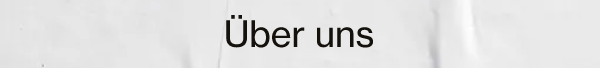
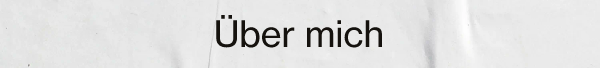
Align Remy window chrome and unify About presentation

diff --git a/nextjs/app/components/HubMapIntro.module.css b/nextjs/app/components/HubMapIntro.module.css
@@ -4,25 +4,15 @@
 .copy { max-width: 440px; }
 .copy p { margin: 0 0 28px; font-size: clamp(18px, 1.8vw, 26px); line-height: 1.4; letter-spacing: -.025em; }
 .showcase { width: min(100%, 360px); justify-self: center; perspective: 1400px; }
-.phone { display: block; position: relative; padding: 6px; border-radius: 15% / 7%; background: #090a0b; border: 1px solid #969695; transform: rotateY(-7deg) rotateZ(2deg); box-shadow: inset 0 0 0 1px #383a3c, 1px 0 0 1px #656667, 3px 1px 0 1px #292b2d, 4px 2px 0 1px #737474, 14px 22px 35px #0005; }
-.phone::before, .phone::after { content: ''; position: absolute; width: 3px; border-radius: 2px; background: linear-gradient(90deg, #777, #252729); }
-.phone::before { left: -3px; top: 21%; height: 7%; box-shadow: 0 46px 0 #4b4d4f; }
-.phone::after { right: -6px; top: 28%; height: 12%; }
-.display { position: relative; overflow: clip; border-radius: 13% / 6%; background: #fff; aspect-ratio: 9 / 19.5; display: flex; flex-direction: column; }
-.status { position: relative; flex: 0 0 auto; height: 36px; padding: 0 7%; display: flex; align-items: center; justify-content: space-between; color: #111; font: 600 9px/1 Arial, sans-serif; }
-.status i { position: absolute; top: 7px; left: 50%; transform: translateX(-50%); width: 29%; height: 19px; border-radius: 20px; background: #050505; }
-.status i::after { content: ''; position: absolute; right: 7px; top: 6px; width: 6px; height: 6px; border-radius: 50%; background: radial-gradient(circle at 40% 35%, #202c40, #080b11 65%); }
-.statusIcons { width: 19%; height: auto; }
 .viewport { overflow: clip; flex: 1; min-height: 0; }
 .track { display: flex; width: 400%; height: 100%; touch-action: pan-y; }
 .slide { width: 25%; flex: 0 0 25%; overflow: clip; }
 .screen { display: block; width: 100%; height: auto; }
-.homeBar { position: absolute; bottom: 6px; left: 34%; width: 32%; height: 3px; border-radius: 4px; background: #111; box-shadow: 0 0 2px #fff; }
 .controls { display: flex; align-items: center; justify-content: center; gap: 2px; margin-top: 34px; }
 .dot, .pause { width: 40px; height: 40px; display: grid; place-items: center; border: 0; background: transparent; color: var(--et-fg); cursor: pointer; }
 .dot::after { content: ''; width: 6px; height: 6px; border-radius: 10px; background: currentColor; opacity: .3; }
 .dot[aria-pressed='true']::after { width: 22px; opacity: 1; }
-.phone:focus-visible, .dot:focus-visible, .pause:focus-visible { outline: 3px solid var(--et-fg); outline-offset: 5px; }
+.dot:focus-visible, .pause:focus-visible { outline: 3px solid var(--et-fg); outline-offset: 5px; }
 /* Wie der Hero: eine Bildschirmhöhe, mit vollständig sichtbarem Telefon und CTA. */
 @media (min-width: 768px) {
   .section { box-sizing: border-box; min-height: 570px; height: 100svh; padding-block: clamp(24px, 5svh, 56px); }

diff --git a/nextjs/app/components/HubMapIntro.tsx b/nextjs/app/components/HubMapIntro.tsx
@@ -5,6 +5,8 @@ import gsap from 'gsap';
 import Image from './SiteImage';
 import MapIntentLink from './MapIntentLink';
 import styles from './HubMapIntro.module.css';
+import phoneStyles from './PhoneDisplay.module.css';
+import PhoneDisplay from './PhoneDisplay';
 
 const SCREEN_ORDER = [4, 1, 3, 2] as const;
 
@@ -70,7 +72,7 @@ export default function HubMapIntro({ locale }: { locale: 'de' | 'en' }) {
       <div ref={showcase} className={styles.showcase} onMouseEnter={() => setInteracting(true)} onMouseLeave={() => setInteracting(false)} onFocusCapture={() => setInteracting(true)} onBlurCapture={event => { if (!event.currentTarget.contains(event.relatedTarget)) setInteracting(false); }}>
         <MapIntentLink
           href="/map"
-          className={styles.phone}
+          className={phoneStyles.phone}
           aria-label={de ? 'Food Map öffnen' : 'Open the food map'}
           onPointerDown={event => {
             if (event.pointerType !== 'touch') suppressClick.current = false;
@@ -119,8 +121,7 @@ export default function HubMapIntro({ locale }: { locale: 'de' | 'en' }) {
             event.stopPropagation();
           }}
         >
-          <div className={styles.display}>
-            <div className={styles.status} aria-hidden="true"><span>9:41</span><i /><svg className={styles.statusIcons} viewBox="0 0 64 14" fill="currentColor"><rect x="1" y="8" width="3" height="5" rx=".8"/><rect x="6" y="6" width="3" height="7" rx=".8"/><rect x="11" y="3" width="3" height="10" rx=".8"/><rect x="16" y="0" width="3" height="13" rx=".8"/><path d="M23 4a11 11 0 0 1 16 0l-2 2a8 8 0 0 0-12 0zm3 4a7 7 0 0 1 10 0l-2 2a4 4 0 0 0-6 0zm3 3a3 3 0 0 1 4 0l-2 2z"/><rect x="43" y="1" width="18" height="11" rx="3" fill="none" stroke="currentColor" strokeWidth="1"/><rect x="45" y="3" width="14" height="7" rx="1.5"/><path d="M63 4v5" stroke="currentColor" strokeWidth="2"/></svg></div>
+          <PhoneDisplay>
             <div className={styles.viewport}>
               <div ref={track} className={styles.track}>
                 {screens.map(({ id, description }, index) => (
@@ -130,8 +131,7 @@ export default function HubMapIntro({ locale }: { locale: 'de' | 'en' }) {
                 ))}
               </div>
             </div>
-            <div className={styles.homeBar} aria-hidden="true" />
-          </div>
+          </PhoneDisplay>
         </MapIntentLink>
         <div className={styles.controls} role="group" aria-label={de ? 'Screens auswählen' : 'Choose a screen'}>
           {screens.map(({ description }, index) => <button key={description} type="button" className={styles.dot} aria-label={description} aria-pressed={active === index} onClick={() => { showScreen(index); setPaused(true); }} />)}

diff --git a/nextjs/e2e/remy-window-chrome.spec.ts b/nextjs/e2e/remy-window-chrome.spec.ts
@@ -1,0 +1,30 @@
+import { expect, test } from '@playwright/test';
+import { CONSENT_VERSION } from '../lib/consent';
+
+for (const width of [390, 1440]) {
+  test(`Remy title bar and close control stay aligned after sending at ${width}px`, async ({ page, context, baseURL }) => {
+    await page.setViewportSize({ width, height: 900 });
+    await page.emulateMedia({ reducedMotion: 'reduce' });
+    await context.addCookies([{ name: 'cookieConsent', value: `declined.${CONSENT_VERSION}`, url: baseURL! }]);
+    await page.route('**/api/consent', route => route.fulfill({ status: 204 }));
+    await page.route('**/api/buddy', route => route.fulfill({ contentType: 'application/x-ndjson', body: '{"type":"text","value":"Hier ist dein Tipp."}\n{"type":"done"}\n' }));
+    await page.goto('/about');
+    await page.locator('#burgerBtn').click();
+    await page.getByRole('dialog', { name: 'Navigation' }).getByRole('button', { name: 'Frag Remy', exact: true }).click();
+    const panel = page.locator('#buddy-panel');
+    const close = panel.getByRole('button', { name: 'Schließen', exact: true });
+    await expect(panel).toBeVisible();
+    const before = await close.boundingBox();
+    await panel.locator('input').fill('Pizza?');
+    await panel.getByRole('button', { name: 'Senden', exact: true }).click();
+    await expect(panel.locator('[data-buddy-avatar="header"]')).toBeVisible();
+    const after = await close.boundingBox();
+    expect(Math.abs(after!.y - before!.y), 'Close button must not move down when the portrait enters').toBeLessThan(1);
+    const glyph = await close.locator('svg').boundingBox();
+    expect(Math.abs(glyph!.x + glyph!.width / 2 - after!.x - after!.width / 2)).toBeLessThan(1);
+    expect(Math.abs(glyph!.y + glyph!.height / 2 - after!.y - after!.height / 2)).toBeLessThan(1);
+    await page.screenshot({ path: `/tmp/eat-this-followup-remy-${width}.png` });
+    await close.click();
+    await expect(panel).toBeHidden();
+  });
+}

diff --git a/nextjs/app/components/PhoneDisplay.module.css b/nextjs/app/components/PhoneDisplay.module.css
@@ -1,0 +1,11 @@
+.phone { display: block; position: relative; padding: 6px; border-radius: 15% / 7%; background: #090a0b; border: 1px solid #969695; transform: rotateY(-7deg) rotateZ(2deg); box-shadow: inset 0 0 0 1px #383a3c, 1px 0 0 1px #656667, 3px 1px 0 1px #292b2d, 4px 2px 0 1px #737474, 14px 22px 35px #0005; }
+.phone::before, .phone::after { content: ''; position: absolute; width: 3px; border-radius: 2px; background: linear-gradient(90deg, #777, #252729); }
+.phone::before { left: -3px; top: 21%; height: 7%; box-shadow: 0 46px 0 #4b4d4f; }
+.phone::after { right: -6px; top: 28%; height: 12%; }
+.display { position: relative; overflow: clip; border-radius: 13% / 6%; background: #fff; aspect-ratio: 9 / 19.5; display: flex; flex-direction: column; }
+.status { position: relative; flex: 0 0 auto; height: 36px; padding: 0 7%; display: flex; align-items: center; justify-content: space-between; color: #111; font: 600 9px/1 Arial, sans-serif; }
+.status i { position: absolute; top: 7px; left: 50%; transform: translateX(-50%); width: 29%; height: 19px; border-radius: 20px; background: #050505; }
+.status i::after { content: ''; position: absolute; right: 7px; top: 6px; width: 6px; height: 6px; border-radius: 50%; background: radial-gradient(circle at 40% 35%, #202c40, #080b11 65%); }
+.statusIcons { width: 19%; height: auto; }
+.homeBar { position: absolute; bottom: 6px; left: 34%; width: 32%; height: 3px; border-radius: 4px; background: #111; box-shadow: 0 0 2px #fff; }
+.phone:focus-visible { outline: 3px solid var(--et-fg); outline-offset: 5px; }

diff --git a/nextjs/app/components/MapPhoneArtwork.tsx b/nextjs/app/components/MapPhoneArtwork.tsx
@@ -1,13 +1,19 @@
 import Image from './SiteImage';
+import PhoneDisplay from './PhoneDisplay';
+import phoneStyles from './PhoneDisplay.module.css';
 import styles from './MapPhoneArtwork.module.css';
 
-/** The current map screenshot, showing the spot list, inside its exported iPhone frame. */
+/** Same iPhone casing as the home preview, with the current map spot list. */
 export default function MapPhoneArtwork({ alt, className = '', fit = false }: { alt: string; className?: string; fit?: boolean }) {
   return (
-    <span className={`${styles.mount} ${fit ? styles.fit : ''} ${className}`}>
-      <span className={styles.frame}>
-      <Image src="/pics/home-map/iphone-screen-4-frame.webp" alt={alt} width={534} height={1044} sizes="(max-width: 600px) 225px, 350px" className={styles.image} />
-      </span>
-    </span>
+    <div className={`${styles.mount} ${fit ? styles.fit : ''} ${className}`}>
+      <div className={phoneStyles.phone}>
+        <PhoneDisplay>
+          <div className={styles.viewport}>
+            <Image src="/pics/home-map/iphone-screen-4.webp" alt={alt} width={440} height={894} sizes="(max-width: 600px) 260px, 350px" className={styles.image} />
+          </div>
+        </PhoneDisplay>
+      </div>
+    </div>
   );
 }

diff --git a/nextjs/app/components/PhoneDisplay.tsx b/nextjs/app/components/PhoneDisplay.tsx
@@ -1,0 +1,13 @@
+import type { ReactNode } from 'react';
+import styles from './PhoneDisplay.module.css';
+
+/** Shared iPhone casing and display chrome for the home and About previews. */
+export default function PhoneDisplay({ children }: { children: ReactNode }) {
+  return (
+    <div className={styles.display}>
+      <span className={styles.status} aria-hidden="true"><span>9:41</span><i /><svg className={styles.statusIcons} viewBox="0 0 64 14" fill="currentColor"><rect x="1" y="8" width="3" height="5" rx=".8"/><rect x="6" y="6" width="3" height="7" rx=".8"/><rect x="11" y="3" width="3" height="10" rx=".8"/><rect x="16" y="0" width="3" height="13" rx=".8"/><path d="M23 4a11 11 0 0 1 16 0l-2 2a8 8 0 0 0-12 0zm3 4a7 7 0 0 1 10 0l-2 2a4 4 0 0 0-6 0zm3 3a3 3 0 0 1 4 0l-2 2z"/><rect x="43" y="1" width="18" height="11" rx="3" fill="none" stroke="currentColor" strokeWidth="1"/><rect x="45" y="3" width="14" height="7" rx="1.5"/><path d="M63 4v5" stroke="currentColor" strokeWidth="2"/></svg></span>
+      {children}
+      <span className={styles.homeBar} aria-hidden="true" />
+    </div>
+  );
+}

diff --git a/nextjs/lib/i18n/translations.ts b/nextjs/lib/i18n/translations.ts
@@ -169,7 +169,7 @@ const en = {
   breadcrumb: {},
   footer: {
     signIn: 'Sign in',
-    about: 'About',
+    about: 'About me',
     contact: 'Contact',
     impressum: 'Impressum',
     datenschutz: 'Privacy',
@@ -178,7 +178,7 @@ const en = {
     copyright: '\u00a9 2026 Eat This. All rights reserved.',
   },
   burger: {
-    about: 'About',
+    about: 'About me',
     contact: 'Contact',
     impressum: 'Impressum',
     map: 'Map',
@@ -564,7 +564,7 @@ const deOverrides: DeepPartial<TranslationsShape> = {
   breadcrumb: {},
   footer: {
     signIn: 'Anmelden',
-    about: '\u00dcber uns',
+    about: '\u00dcber mich',
     contact: 'Kontakt',
     datenschutz: 'Datenschutz',
     agb: 'AGB',
@@ -572,7 +572,7 @@ const deOverrides: DeepPartial<TranslationsShape> = {
     copyright: '\u00a9 2026 Eat This. Alle Rechte vorbehalten.',
   },
   burger: {
-    about: '\u00dcber uns',
+    about: '\u00dcber mich',
     contact: 'Kontakt',
     impressum: 'Impressum',
     map: 'Map',

diff --git a/nextjs/app/components/NewsArticleShell.module.css b/nextjs/app/components/NewsArticleShell.module.css
@@ -677,7 +677,7 @@ div.page {
   background-blend-mode: multiply;
   color: var(--et-fg);
   text-decoration: none;
-  transition: transform 180ms cubic-bezier(0.16, 0.92, 0.18, 1);
+  transition: background-color 160ms ease;
 }
 
 .hubLinkPack {
@@ -689,7 +689,6 @@ div.page {
   margin-top: calc(-1 * clamp(56px, 7vw, 84px));
   rotate: -8deg;
   filter: drop-shadow(0 14px 20px rgba(0, 0, 0, 0.45));
-  transition: transform 220ms cubic-bezier(0.16, 0.92, 0.18, 1);
 }
 
 .hubLinkKicker {
@@ -726,12 +725,9 @@ div.page {
 
 @media (hover: hover) {
   .hubLink:hover {
-    transform: translateY(-3px);
+    background-color: color-mix(in srgb, var(--et-fg) 8%, var(--et-ground));
   }
 
-  .hubLink:hover .hubLinkPack {
-    transform: translateY(-6px) rotate(5deg);
-  }
 }
 
 /* ------------------------------------------------------------- share ---- */

diff --git a/nextjs/app/components/MapPhoneArtwork.module.css b/nextjs/app/components/MapPhoneArtwork.module.css
@@ -1,4 +1,4 @@
-.mount { display: block; position: relative; width: 100%; aspect-ratio: 472 / 988; perspective: 1400px; }
-.frame { display: block; position: relative; width: 100%; aspect-ratio: 472 / 988; overflow: hidden; border-radius: 14.83% / 7.09%; transform: rotateY(-12deg) rotateZ(3deg); box-shadow: 0 14px 24px #0003; }
-.image { position: absolute; left: -6.57%; top: -1.42%; width: 113.14%; height: 105.67%; max-width: none; }
+.mount { display: block; position: relative; width: 100%; perspective: 1400px; }
+.viewport { display: block; flex: 1; min-height: 0; overflow: clip; }
+.image { display: block; width: 100%; height: auto; }
 .fit { position: absolute; top: 50%; left: 50%; width: min(88cqw, 43cqh); transform: translate(-50%, -50%); }

diff --git a/nextjs/app/llms.txt/route.ts b/nextjs/app/llms.txt/route.ts
@@ -73,7 +73,7 @@ export async function GET(): Promise<Response> {
     de('Bezirke', '/bezirk'),
     de('Kategorien', '/kategorie'),
     de('Magazin / News', '/news'),
-    de('Über uns', '/about'),
+    de('Über mich', '/about'),
     '',
     '## Kategorien',
     ...categories.map((c) => de(c.name, `/kategorie/${c.slug}`)),
@@ -93,7 +93,7 @@ export async function GET(): Promise<Response> {
     en('Districts', '/bezirk'),
     en('Categories', '/kategorie'),
     en('Magazine', '/news'),
-    en('About', '/about'),
+    en('About me', '/about'),
     '',
     '### Categories',
     // Die GROQ-Sortierung ist die deutsche (`order(name asc)`); fuer die

diff --git a/nextjs/app/[locale]/(spa)/[...slug]/page.tsx b/nextjs/app/[locale]/(spa)/[...slug]/page.tsx
@@ -47,12 +47,12 @@ const PAGE_META: Record<string, SlugMeta> = {
   },
   about: {
     de: {
-      title: 'Über uns',
+      title: 'Über mich',
       description:
         'Was Eat This ist, wer dahinter steckt und warum wir Berlins Restaurants kuratieren – plus Remy, der jeden Spot auf der Map kennt.',
     },
     en: {
-      title: 'About',
+      title: 'About me',
       description:
         "What Eat This is, who's behind it, why we curate Berlin's restaurants – plus Remy, who knows every spot on the map.",
     },

diff --git a/nextjs/emails/art.generated.ts b/nextjs/emails/art.generated.ts
@@ -169,8 +169,8 @@ export const ART = {
     "id": "footer-about",
     "width": 300,
     "height": 34,
-    "alt": "Über uns",
-    "version": "f1f3246e"
+    "alt": "Über mich",
+    "version": "47645b0c"
   },
   "footerContact": {
     "id": "footer-contact",
@@ -211,8 +211,8 @@ export const ART = {
     "id": "footer-about-en",
     "width": 300,
     "height": 34,
-    "alt": "About",
-    "version": "8f9c08d0"
+    "alt": "About me",
+    "version": "f0311833"
   },
   "footerContactEn": {
     "id": "footer-contact-en",
